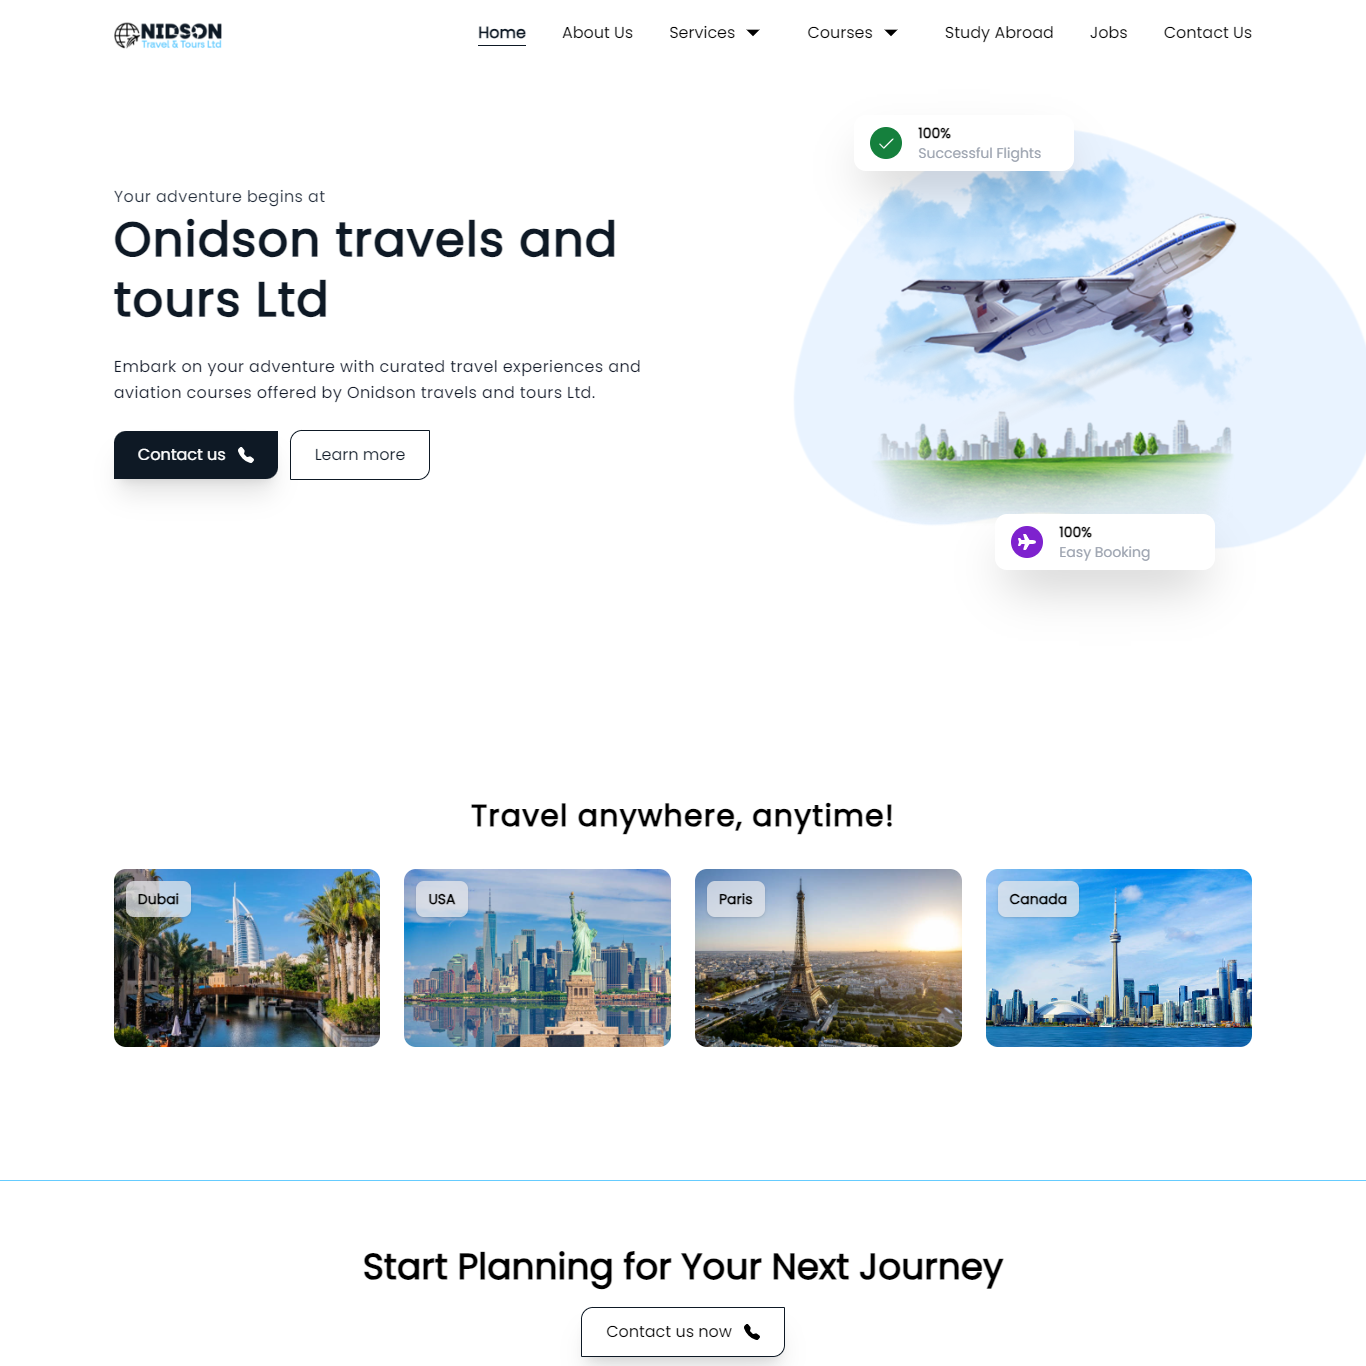
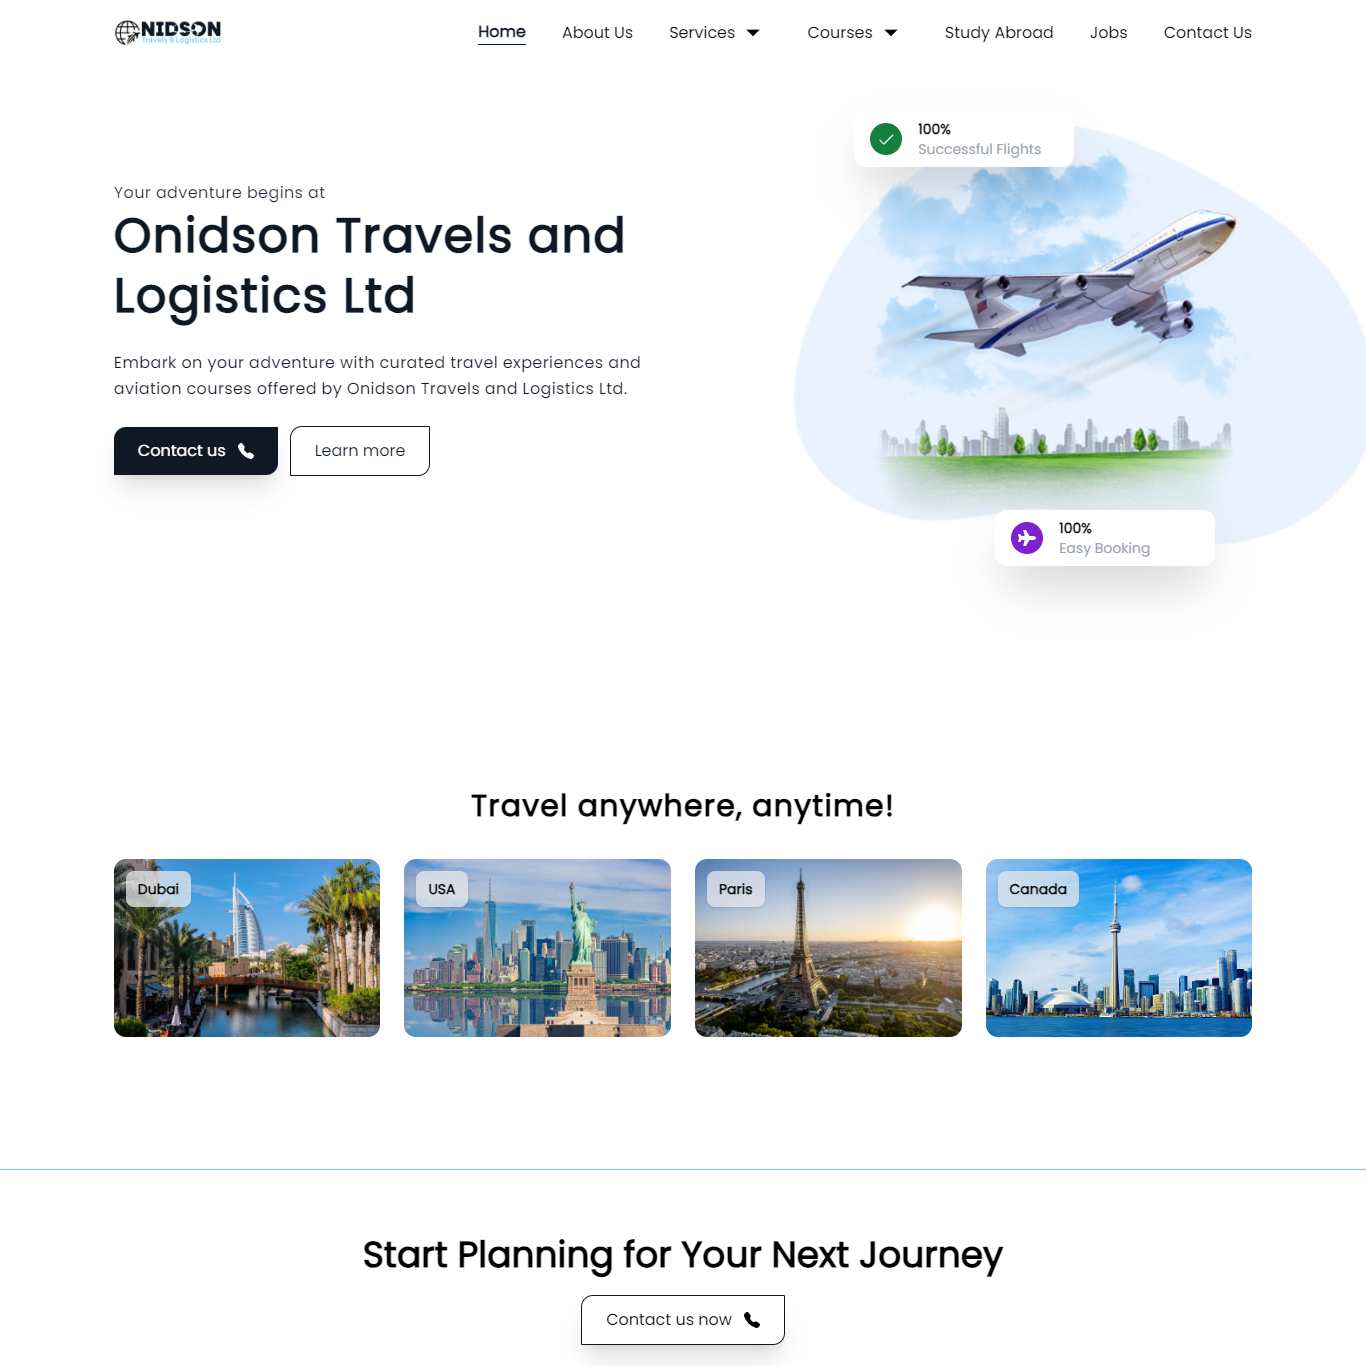
updated onidson travels and logistics

diff --git a/src/Pages/Portfolio/Portfolio.jsx b/src/Pages/Portfolio/Portfolio.jsx
@@ -16,7 +16,7 @@ import img from "../../assets/img/portfolio.jpg"
 
 const PortfolioItems = [
     {
-        title: 'Onidson Travels and Tours Ltd',
+        title: 'Onidson Travels and Logistics Ltd',
         link: 'https://onidsontravels.com',
         img: onidson
     },
